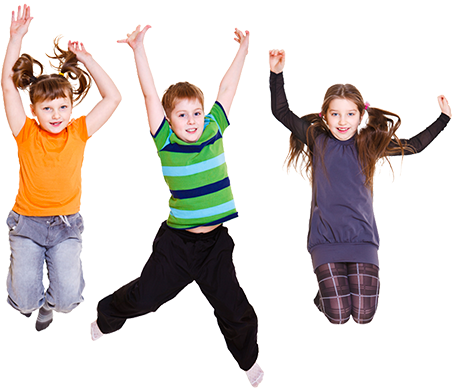
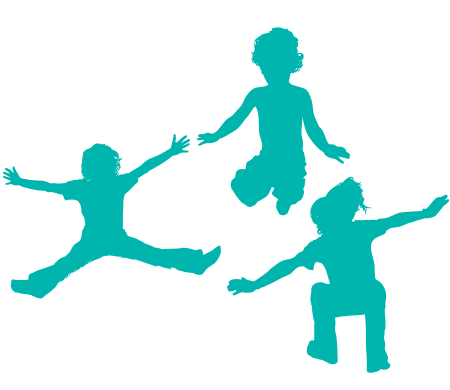
изменена страница цены, картинки на главной заменены

diff --git a/price.html b/price.html
@@ -92,15 +92,28 @@
                    </thead> 
                    <tbody class="tab-block">
                        <tr>
-                       <td id="tab_n_n">1 час</td>
+                       <td id="tab_n_n">Взрослый тариф/1 час</td>
                        <td id="tab_n">200 <i class="fa fa-rub" aria-hidden="true"></i></td>
                        <td id="tab_n">400 <i class="fa fa-rub" aria-hidden="true"></i></td>
                        </tr>
                    
                        <tr>
-                       <td id="tab_n_n">Взорслый + ребенок</td>
+                       <td id="tab_n_n">Взорслый + ребенок/1 час</td>
                        <td id="tab_n">300 <i class="fa fa-rub" aria-hidden="true"></i></td>
                        <td id="tab_n">600 <i class="fa fa-rub" aria-hidden="true"></i></td>
+                       </tr>
+                       
+                       <tr>
+                       <td id="tab_n_n">JAM (15:00-18:00)/3 часа</td>
+                       <td id="tab_n">500 <i class="fa fa-rub" aria-hidden="true"></i></td>
+                       <td id="tab_n">1 000 <i class="fa fa-rub" aria-hidden="true"></i></td>
+                       </tr>
+                       
+                       <tr>
+                       <td id="tab_n_n">Вместе веселее (20:00-22:00)/1 час</td>
+                       <td id="tab_n"></td>
+                       <td id="tab_n">600 <i class="fa fa-rub" aria-hidden="true"></i>/2человека</td>
+                       
                        </tr>
                    
                        <tr>
@@ -116,7 +129,13 @@
                     </tbody>
                 </table>
                    
-                   
+                <div class="container">
+               <div class="row" id="tab_text_down">
+                <span>Студентам и школьникам в будни после 18.00, в выходные и праздничные дни – 300 рублей/час<br>
+                (при предъявлении документа, подтверждающего возраст/документа с места учёбы)
+                </span>
+               </div>  
+            </div>       
                    
                 <table class="table_posit">
                    <caption id="tab-h">Абонементы на свободное посещение</caption>
@@ -149,19 +168,19 @@
                        <tr>
                        <td id="tab_n_n">Абонемент на 3 месяца (безлимит)</td>
                        <td id="tab_n">5 000 <i class="fa fa-rub" aria-hidden="true"></i></td>
-                       <td id="tab_n"></td>
+                       <td id="tab_n">10 000 <i class="fa fa-rub" aria-hidden="true"></i></td>
                        </tr>
                        
                        <tr>
                        <td id="tab_n_n">Абонемент на 6 месяцев (безлимит)</td>
                        <td id="tab_n">9 000 <i class="fa fa-rub" aria-hidden="true"></i></td>
-                       <td id="tab_n"></td>
+                       <td id="tab_n">18 000 <i class="fa fa-rub" aria-hidden="true"></i></td>
                        </tr>
                        
                        <tr>
                        <td id="tab_n_n">Абонемент на 1 год (безлимит)</td>
                        <td id="tab_n">15 000 <i class="fa fa-rub" aria-hidden="true"></i></td>
-                       <td id="tab_n"></td>
+                       <td id="tab_n">30 000 <i class="fa fa-rub" aria-hidden="true"></i></td>
                        </tr>
                    
                        <tr>
@@ -175,34 +194,64 @@
                        </tr>
                     </tbody>
                 </table>  
+                  
                    
+                     
+                <table class="table_posit">
+                   <caption id="tab-h">Индивидуальные занятия с инструктором</caption>
                    
+                   <tbody class="tab-block">
+                       <tr>
+                       <td id="tab_n_n">1 час</td>
+                       <td id="tab_n">800 <i class="fa fa-rub" aria-hidden="true"></i></td>
+                       </tr>
+                   
+                       <tr>
+                       <td id="tab_n_n">2 часа</td>
+                       <td id="tab_n">1 500 <i class="fa fa-rub" aria-hidden="true"></i></td>
+                       </tr>
+                                                               
+                       <tr>
+                       <td id="tab_n_n">4 часа</td>
+                       <td id="tab_n">2 800 <i class="fa fa-rub" aria-hidden="true"></i></td>
+                       </tr>
+                       
+                       <tr>
+                       <td id="tab_n_n">8 часов</td>
+                       <td id="tab_n">5 200 <i class="fa fa-rub" aria-hidden="true"></i></td>
+                       </tr>
+                                                               
+                       <tr>
+                       <td></td>
+                       <td><button type="button" class="btn btn-secondary">Купить</button></td>
+                       </tr>
+                       
+                       <tr>
+                       <td colspan="2"><hr id="cherta_tab"></td>
+                       </tr>
+                    </tbody>
+                </table>    
                    
                    
                 <table class="table_posit">
-                   <caption><h3 id="tab-h">Групповые тренировки с тренером</h3>
-                   <p id="tab-h-p">Акробатика на батуте/батутный фристайл (сноуборд, вейкборд)</p>
+                   <caption><h3 id="tab-h">Групповые занятия с инструктором</h3>
+                   <p id="tab-h-p">(детские группы, акробатика, фристайл)</p>
                    </caption>
-                   <thead class="tab-block-b">
-                       <tr>
-                       <th id="tab_b"></th>
-                       <th id="tab_b"><h4 id="tab-b-n">Дети (до 14 лет)/взрослые</h4></th>
-                       </tr>
-                   </thead> 
+                   
                    <tbody class="tab-block">
                        <tr>
-                       <td id="tab_n_n">Разовое посещение</td>
+                       <td id="tab_n_n">1 занятие</td>
                        <td id="tab_n">600 <i class="fa fa-rub" aria-hidden="true"></i></td>
                        </tr>
                    
                        <tr>
-                       <td id="tab_n_n">Абонемент на 4 посещения в месяц</td>
-                       <td id="tab_n">2 000 <i class="fa fa-rub" aria-hidden="true"></i></td>
+                       <td id="tab_n_n">4 занятия</td>
+                       <td id="tab_n">2 100 <i class="fa fa-rub" aria-hidden="true"></i></td>
                        </tr>
                        
                        <tr>
-                       <td id="tab_n_n">Абонемент на 8 посещений в месяц</td>
-                       <td id="tab_n">3 000 <i class="fa fa-rub" aria-hidden="true"></i></td>
+                       <td id="tab_n_n">8 занятий</td>
+                       <td id="tab_n">3 900 <i class="fa fa-rub" aria-hidden="true"></i></td>
                        </tr>
                                          
                        <tr>
@@ -219,22 +268,16 @@
                    
                 <table class="table_posit">
                    <caption><h3 id="tab-h">Фриран</h3>
-                   <p id="tab-h-p">Группы разделяются по возрасту и категориям</p>
                    </caption>
-                   <thead class="tab-block-b">
-                       <tr>
-                       <th id="tab_b"></th>
-                       <th id="tab_b"><h4 id="tab-b-n">Дети (до 14 лет)/взрослые</h4></th>
-                       </tr>
-                   </thead> 
+                   
                    <tbody class="tab-block">
                        <tr>
-                       <td id="tab_n_n">Разовое посещение</td>
+                       <td id="tab_n_n">1 занятие</td>
                        <td id="tab_n">300 <i class="fa fa-rub" aria-hidden="true"></i></td>
                        </tr>
                    
                        <tr>
-                       <td id="tab_n_n">Абонемент на 4 посещения в месяц</td>
+                       <td id="tab_n_n">8 занятий (месяц)</td>
                        <td id="tab_n">2 000 <i class="fa fa-rub" aria-hidden="true"></i></td>
                        </tr>
                                                                 
